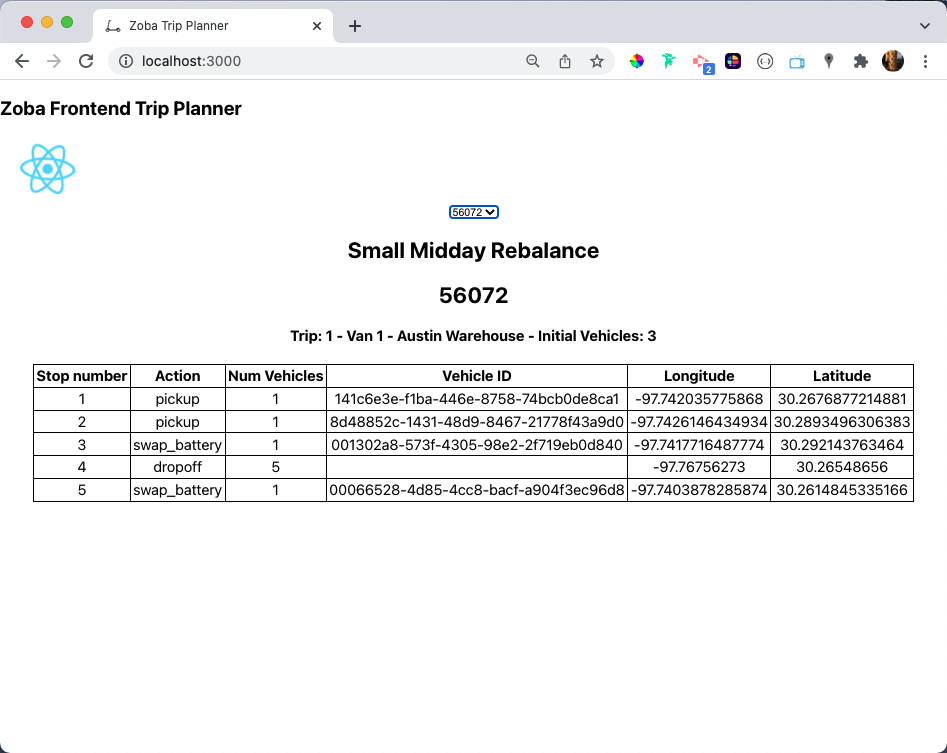
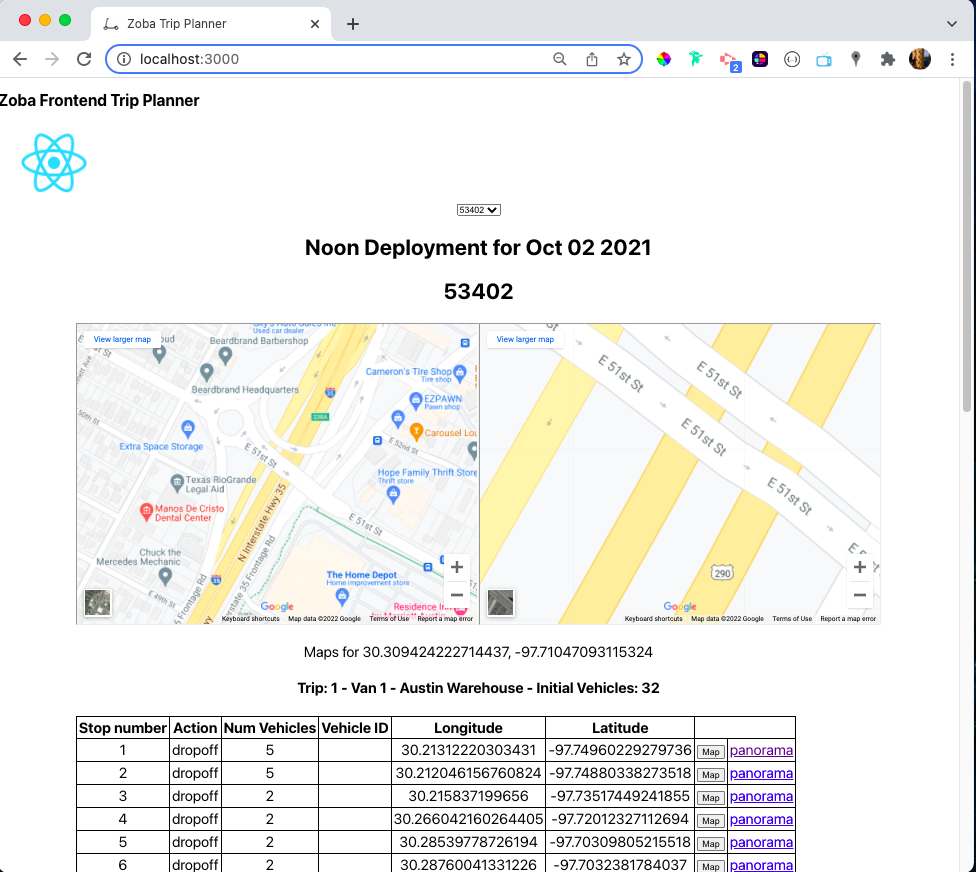
Embedded google maps for each stop

Changed region(s): [[0.0, 0.0, 1.0, 1.0]]

diff --git a/src/Map/Map.js b/src/Map/Map.js
@@ -1,34 +1,27 @@
 function Map(props) {
-  const mockMapURL = `https://www.google.com/maps/embed?pb=!1m18!1m12!1m3!1d3446.3244723138314!2d-97.7427688848799!3d30.25633488180571!2m3!1f0!2f0!3f0!3m2!1i1024!2i768!4f13.1!3m3!1m2!1s0x0%3A0x1142d51aaa51f6c!2zMzDCsDE1JzIyLjgiTiA5N8KwNDQnMjYuMSJX!5e0!3m2!1sen!2sus!4v1642909832786!5m2!1sen!2sus`
+  const APIkey = process.env.REACT_APP_GOOGLE_MAPS_EMBEDDED_API_KEY
 
-  const mapURL = `https://www.google.com/maps/embed/v1/view\
-  ?key=${process.env.REACT_APP_GOOGLE_MAPS_EMBEDDED_API_KEY}\
-  &center=${props.latitude},${props.longitude}`
-  // \
-  // &zoom=18\
-  // &maptype=satellite`
+  const mapURLzoom = `https://www.google.com/maps/embed/v1/view?key=${APIkey}&zoom=20&center=${props.latitude},${props.longitude}`
 
-  // https://www.google.com/maps/embed/v1/view
-  // ?key=YOUR_API_KEY
-  // &center=-33.8569,151.2152
-  // &zoom=18
-  // &maptype=satellite
+  const mapURLoverview = `https://www.google.com/maps/embed/v1/view?key=AIzaSyA7-ev5jIqziqi4gLLGEUQbPMr0AfyC4n0&zoom=17&center=${props.latitude},${props.longitude}`
 
-  // console.log(process.env.NODE_ENV)
-  // console.log(process.env.REACT_APP_GOOGLE_MAPS_EMBEDDED_API_KEY)
-  console.log(mapURL)
-  
   const mapComponent = props.latitude === undefined ? "" : 
-  <>
-    
-    <iframe title="map" 
-      src={mapURL} 
-      width="600" height="450"
-      allowFullScreen="" 
-      loading="lazy"
-    />
-    <p>Map for {props.latitude}, {props.longitude}</p>
-  </>
+    <>
+      <iframe title="map" 
+        src={mapURLoverview} 
+        width="600" height="450"
+        allowFullScreen="" 
+        loading="lazy"
+      />
+
+      <iframe title="map" 
+        src={mapURLzoom} 
+        width="600" height="450"
+        allowFullScreen="" 
+        loading="lazy"
+      />
+      <p>Maps for {props.latitude}, {props.longitude}</p>
+    </>
 
   return (
     <> 

diff --git a/src/Plan/Plan.js b/src/Plan/Plan.js
@@ -59,11 +59,11 @@ function Plan(props) {
 
   useEffect(() => {
       // using API
-      // FetchPlan()
+      FetchPlan()
 
       // not using API
-      const plan=FetchPlanNoAPI(planId) 
-      setPlan(plan)
+      // const plan=FetchPlanNoAPI(planId) 
+      // setPlan(plan)
 
       // eslint-disable-next-line react-hooks/exhaustive-deps
   }, [planId])
@@ -86,8 +86,8 @@ function Plan(props) {
       <h2>{plan.name}</h2>
       <h2>{plan.id}</h2>
       <Map
-        longitude={longitude}
         latitude={latitude}
+        longitude={longitude}
       />
       {tripsComponent}
     </div>

diff --git a/src/Stop/Stop.js b/src/Stop/Stop.js
@@ -25,11 +25,10 @@ function Stop(props) {
       <td>{action}</td>
       <td>{numVehicles}</td>
       <td>{vehicle_id}</td>
-      <td>{longitude}</td>
       <td>{latitude}</td>
-      <td><a href={mapURL} target="_blank" rel="noreferrer">map</a></td>
-      <td><a href={panoramaURL} target="_blank" rel="noreferrer">panorama</a></td>
+      <td>{longitude}</td>
       <td><button onClick={handleClick}>Map</button></td>
+      <td><a href={panoramaURL} target="_blank" rel="noreferrer">panorama</a></td>
     </tr>
   )
 }

diff --git a/README.md b/README.md
@@ -23,10 +23,12 @@ Runs the app in the development mode.  Open [http://localhost:3000](http://local
 Launches the test runner in the interactive watch mode. See the section about [running tests](https://facebook.github.io/create-react-app/docs/running-tests) for more information.
 
 ## API's
-This project uses data from the Zoba API at https://api.zoba.com/.
+This project uses data from the Zoba API at https://api.zoba.com/.  The code has an option to run without the API if it is not available.
+This can be turned on by changing the code in the useEffect() in Plan.js.
 
-For Maps to work, the project needs a Google Maps API key.  Add an .env file with the variable REACT_APP_GOOGLE_MAPS_EMBEDDED_API_KEY=AIkeyexample
-Make APIkeyexample your Google Maps API key.
+The projects pulls up maps dynamically from Google Maps into a React component.  For this feature to work, the project needs a Google Maps API key.  The key should be in an .env file with the variable 
+`REACT_APP_GOOGLE_MAPS_EMBEDDED_API_KEY=AIkeyexample`
+where `APIkeyexample` is your Google Maps API key.
 
 ## Tech/framework used
 This project was bootstrapped with [Create React App](https://github.com/facebook/create-react-app) by Jeff Korenstein.
@@ -46,4 +48,6 @@ This project was bootstrapped with [Create React App](https://github.com/faceboo
 
 - [A Simple Explanation of React.useEffect()](https://dmitripavlutin.com/react-useeffect-explanation/)
 
-- [What parameters should I use in a Google Maps URL to go to a lat-lon?](https://stackoverflow.com/questions/2660201/what-parameters-should-i-use-in-a-google-maps-url-to-go-to-a-lat-lon)
+- [Launching Google Maps and performing a specific action](https://developers.google.com/maps/documentation/urls/get-started#search-action)
+
+- [Google Maps - Embedding a map](https://developers.google.com/maps/documentation/embed/embedding-map)
